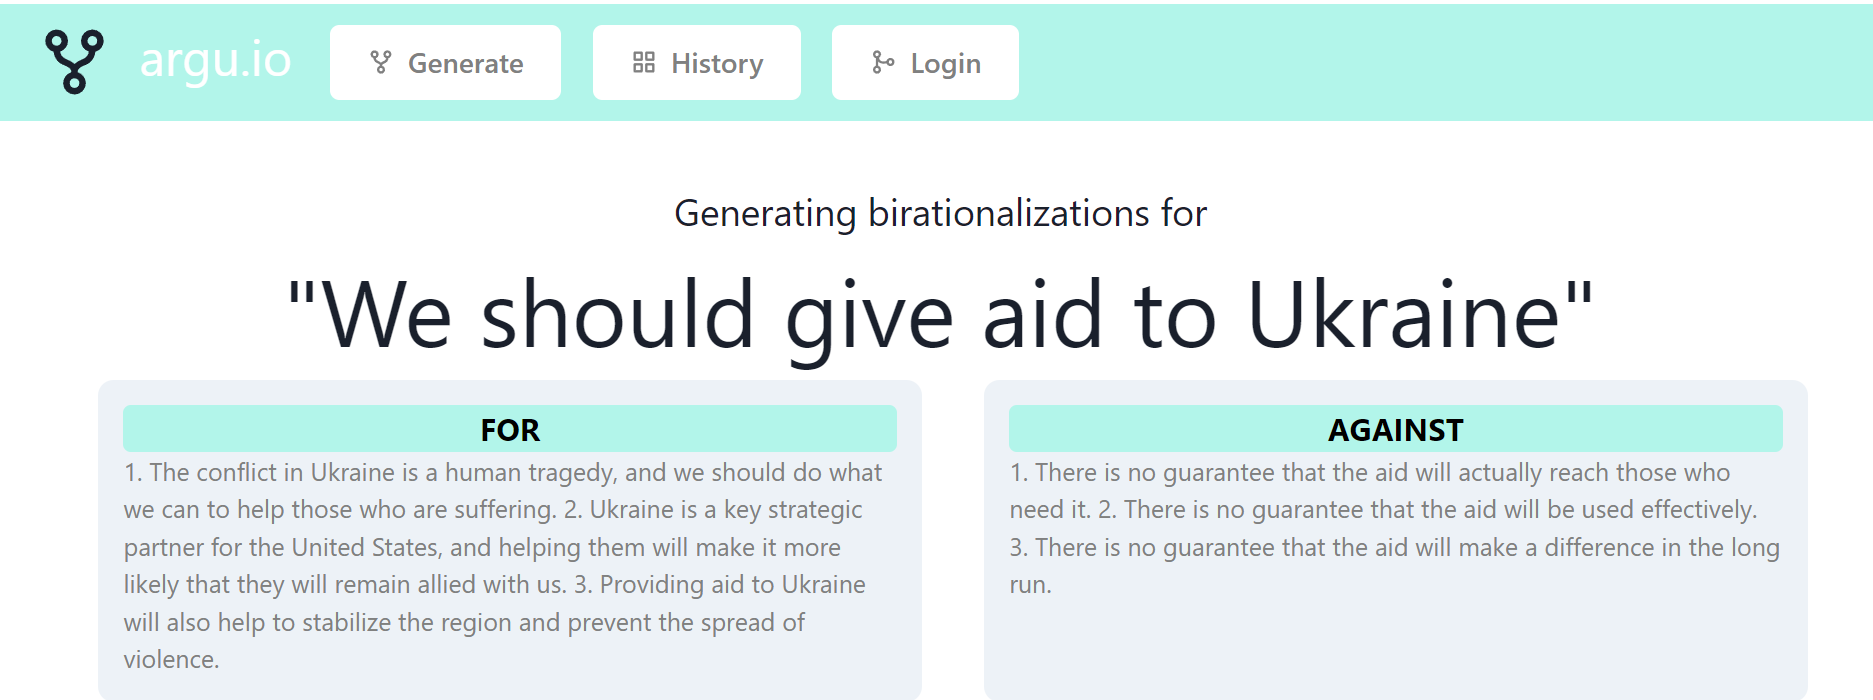
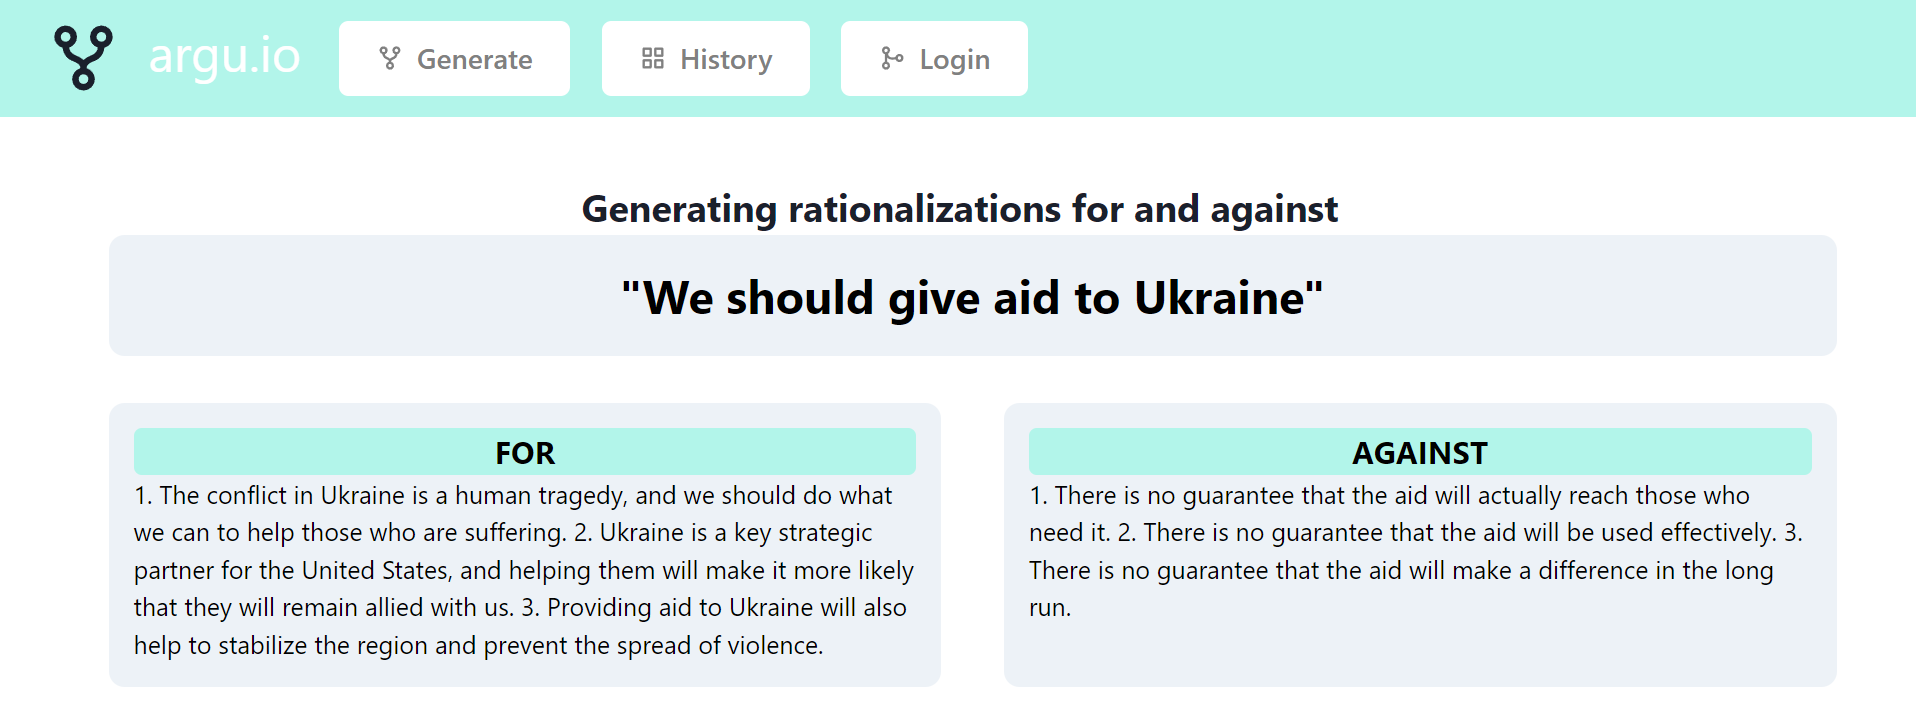
Updated fonts and ent boxes

diff --git a/arguio/src/components/Argboxes/Argboxes.tsx b/arguio/src/components/Argboxes/Argboxes.tsx
@@ -16,21 +16,21 @@ const Argboxes: React.FC<ArgboxesProps> = ({ posA, posB }) => {
     return (
         <Flex>
             <SimpleGrid columns={2} spacing={10}>
-                <Box bg='gray.100' w='100%' p={4} color='grey' borderRadius={10} marginLeft={2}>
+                <Box bg='gray.100' w='100%' p={4} color='black' borderRadius={10} marginLeft={2}>
                     <Box borderRadius={5} px='2'bg='teal.100' w='100%' color='black' fontSize='1.25em' align='center'>
                         <b>FOR</b>
                     </Box>
                     <Box margin="auto">{posA}
                     </Box>
                 </Box>
-                <Box bg='gray.100' w='100%' p={4} color='grey' borderRadius={10} marginLeft={2}>
+                <Box bg='gray.100' w='100%' p={4} color='black' borderRadius={10} marginLeft={2}>
                 <Box borderRadius={5} px='2'bg='teal.100' w='100%' color='black' fontSize='1.25em' align='center'>
                         <b>AGAINST</b>
                     </Box>
                     <Box margin="auto">{posB}
                     </Box>
                 </Box>
-
+{/* 
                 <Flex bg='gray.100' w='100%' p={4} color='grey' borderRadius={10} marginLeft={2} flexDirection="column">
                     <Center><Badge borderRadius={5} px='2' colorScheme='teal' fontSize='1.25em' marginBottom={2}>
                         Entities
@@ -44,7 +44,7 @@ const Argboxes: React.FC<ArgboxesProps> = ({ posA, posB }) => {
                             <EntityBox text="Entity Name"></EntityBox>
                             <EntityBox text="Entity Name"></EntityBox>
                     </Flex>
-                </Flex>
+                </Flex> */}
             </SimpleGrid>
         </Flex>
 

diff --git a/arguio/src/components/Promptbox/Promptbox.tsx b/arguio/src/components/Promptbox/Promptbox.tsx
@@ -1,23 +1,26 @@
-import { Center, Flex } from '@chakra-ui/react';
+import { Center, Flex, Box } from '@chakra-ui/react';
 import React from 'react';
 
 type PromptboxProps = {
     text: string
 };
 
-const Promptbox:React.FC<PromptboxProps> = ({text}) => {
-    
+const Promptbox: React.FC<PromptboxProps> = ({ text }) => {
+
     return (<>
         <Center fontSize='2xl'>
-    Generating birationalizations for
+            <b>Generating rationalizations for and against</b>
 
 
-    </Center>
-    <Center fontSize='6xl'>
-    "{text}"
+        </Center>
+        <Box bg='gray.100' w='100%' p={4}  color="black  " borderRadius={10} marginLeft={2}>
+            <Center fontSize='3xl'>
+               <b> "{text}"</b>
+            </Center>
+        </Box>
+        <Box h="30px"></Box>
 
 
-    </Center>
     </>
     )
 }
